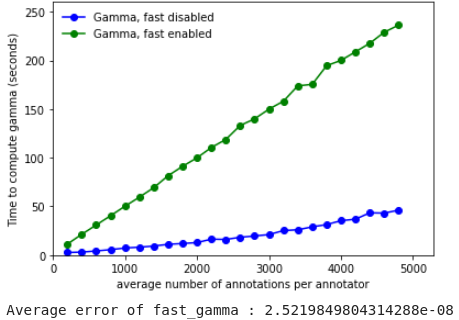
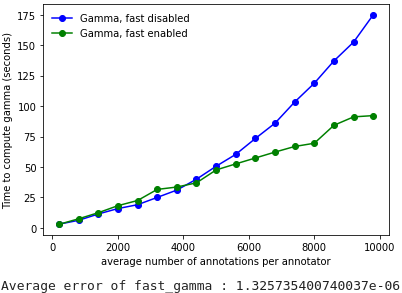
further explainations of fast-gamma and some modifications in the code to match better the theory

diff --git a/pygamma_agreement/continuum.py b/pygamma_agreement/continuum.py
@@ -536,50 +536,52 @@ class Continuum:
         """
         return iter(self._annotations[annotator])
 
-    def get_first_window(self, dissimilarity: AbstractDissimilarity, n: int = 1) -> 'Continuum':
+    def get_first_window(self, dissimilarity: AbstractDissimilarity, w: int = 1) -> Tuple['Continuum', float]:
         """
-        Returns a continuum containing the n first annotations from each annotator.
+        Returns a tuple (continuum, x_limit), with the continuum being the extended head of size w of
+        self, and x_limit being its right bound.
         """
-        sizes = {annotator: len(units) for annotator, units in self._annotations.items()}
-        indexes = {annotator: 0 for annotator in self._annotations.keys()}
-        annotations = {annotator: list(units) for annotator, units in self._annotations.items()}
+        annotators = list(self.annotators)
+        annotations = list(self._annotations.values())
+        sizes = list(map(len, annotations))
+        indexes = [0] * len(annotators)
 
-        # Take the n first units of an annotator and all those in the same timestamp from the others.
-        end_unit = None
+        smallest_unit = Unit(Segment(-np.inf, -np.inf), None)
+
         window = Continuum()
-        for annotator in indexes.keys():
+        for annotator in annotators:
             window.add_annotator(annotator)
-            if indexes[annotator] == sizes[annotator]:
-                continue
-            for index in range(indexes[annotator], sizes[annotator]):
-                unit = annotations[annotator][index]
-                if end_unit is not None and unit.segment.start >= end_unit.segment.end:
-                    indexes[annotator] = index
+        taken_units = 0
+        rightmost_unit = smallest_unit
+        to_take = min(float(np.sum(sizes)), w * self.num_annotators)
+        while taken_units < to_take:
+            x_limit = np.inf
+            for units, index, size in zip(annotations, indexes, sizes):
+                if index >= size:  # All annotations have been consumed
+                    continue
+                unit = units[index]
+                x_limit = min(x_limit, unit.segment.end)
+            for i, (annotator, units, index, size) in enumerate(zip(annotators, annotations, indexes, sizes)):
+                if index >= size:  # All annotations have been consumed
+                    continue
+                unit = units[index]
+                if unit.segment.end <= x_limit:
+                    window.add(annotator, unit.segment, unit.annotation)
+                    rightmost_unit = max(unit, rightmost_unit)
+                    taken_units += 1
+                    indexes[i] += 1
+
+        x_limit = window.bound_sup
+
+        # Now we add the additionnal annotations
+        for annotator, units, index, size in zip(annotators, annotations, indexes, sizes):
+            while index < size:
+                unit = units[index]
+                if dissimilarity.d(rightmost_unit, unit) > dissimilarity.delta_empty * self.num_annotators:
                     break
                 window.add(annotator, unit.segment, unit.annotation)
-                if end_unit is None and index == indexes[annotator] + n - 1:
-                    indexes[annotator] = index + 1
-                    end_unit = unit
-                    break
-            else:
-                indexes[annotator] = sizes[annotator]
-
-        def take_until_criterium(indexes_start):
-            indexes_end = {}
-            for annotator in indexes_start.keys():
-                for index in range(indexes_start[annotator], sizes[annotator]):
-                    unit = annotations[annotator][index]
-                    if any(dissimilarity.d(unit, annotations[other_annot][indexes[other_annot]])
-                           <= dissimilarity.delta_empty * self.num_annotators for other_annot in indexes_start.keys()
-                           if other_annot != annotator and indexes[other_annot] != sizes[other_annot]):
-                        window.add(annotator, unit.segment, unit.annotation)
-                    else:
-                        indexes_end[annotator] = index
-                        break
-            return indexes_end
-        take_until_criterium(take_until_criterium(indexes))
-
-        return window
+                index += 1
+        return window, x_limit
 
     def iter_windows(self, min_length: int):
         sizes = {annotator: len(units) for annotator, units in self._annotations.items()}
@@ -615,11 +617,13 @@ class Continuum:
         disorders = []
 
         while copy:
-            window = copy.get_first_window(dissimilarity, self.best_window_size)
+            window, x_limit = copy.get_first_window(dissimilarity, window_size)
             # Window contains each annotator's first annotations
             # We retain only the leftmost unitary alignment in the best alignment of the window,
             # as it is the most likely to be in the global best alignment
-            for chosen in window.get_best_alignment(dissimilarity).n_leftmost(self.best_window_size):
+            best_alignment = window.get_best_alignment(dissimilarity)
+            chosens =  list(best_alignment.take_until_limit(x_limit))
+            for chosen in chosens:
                 unitary_alignments.append(chosen)
                 disorders.append(chosen.disorder)
                 for annotator, unit in chosen.n_tuple:
@@ -635,7 +639,7 @@ class Continuum:
         Sets the best window size for computing the fast-gamma of this continuum, by using the
         sampling the computing complexity function.
         """
-        smallest_window = self.get_first_window(dissimilarity, 1)
+        smallest_window, _ = self.get_first_window(dissimilarity, 1)
         smallest_window.get_best_alignment(dissimilarity)
 
         s = smallest_window.max_num_annotations_per_annotator

diff --git a/pygamma_agreement/alignment.py b/pygamma_agreement/alignment.py
@@ -181,20 +181,12 @@ class Alignment(AbstractAlignment):
     def __iter__(self) -> Iterator[UnitaryAlignment]:
         return iter(self.unitary_alignments)
 
-    @property
-    def leftmost(self):
-        """Return the (or one of the) leftmost unitary alignments."""
-        return min(self.unitary_alignments, key=(lambda unitary_alignment: unitary_alignment.bounds[0]))
+    def take_until_limit(self, x_limit):
+        for unitary_alignment in sorted(self.unitary_alignments, key=lambda unit_align: unit_align.bounds[1]):
+            if unitary_alignment.bounds[1] > x_limit:
+                break
+            yield unitary_alignment
 
-    def n_leftmost(self, n: int):
-        to_take = n * self.num_annotators
-        taken = 0
-        for unitary_align in sorted(self.unitary_alignments,
-                                    key=(lambda unitary_alignment: unitary_alignment.bounds[0])):
-            taken += unitary_align.nb_units
-            if taken >= to_take:
-                return
-            yield unitary_align
 
 
     @property

diff --git a/docs/source/performance.rst b/docs/source/performance.rst
@@ -48,7 +48,7 @@ dissimilarity,
 - Let :math:`\breve{a}(\mathcal{U})` be any one of its best alignments.
 - For :math:`x` a real number, let :math:`\mathcal{U}[x] = \{u \in \mathcal{U}, end(u) \leq x\}`.
 - For :math:`w` an integer, let
-  :math:`\mathcal{U}_w = \mathcal{U}[max\{x, |\mathcal{U}| \leq w \times |\mathcal{A}| \}]`,
+  :math:`\mathcal{U}_w = \mathcal{U}[min\{x, |\mathcal{U}| \seq w \times |\mathcal{A}| \}]`,
   the "Head of size :math:`w` of :math:`\mathcal{U}`".
 - For :math:`w` an integer, let
   :math:`\epsilon_w(\mathcal{U}) = \{ u \in \mathcal{U}, \exists u' \in \mathcal{U}_w, d(u, u') \leq \Delta_{\emptyset} |\mathcal{A}| \}`
